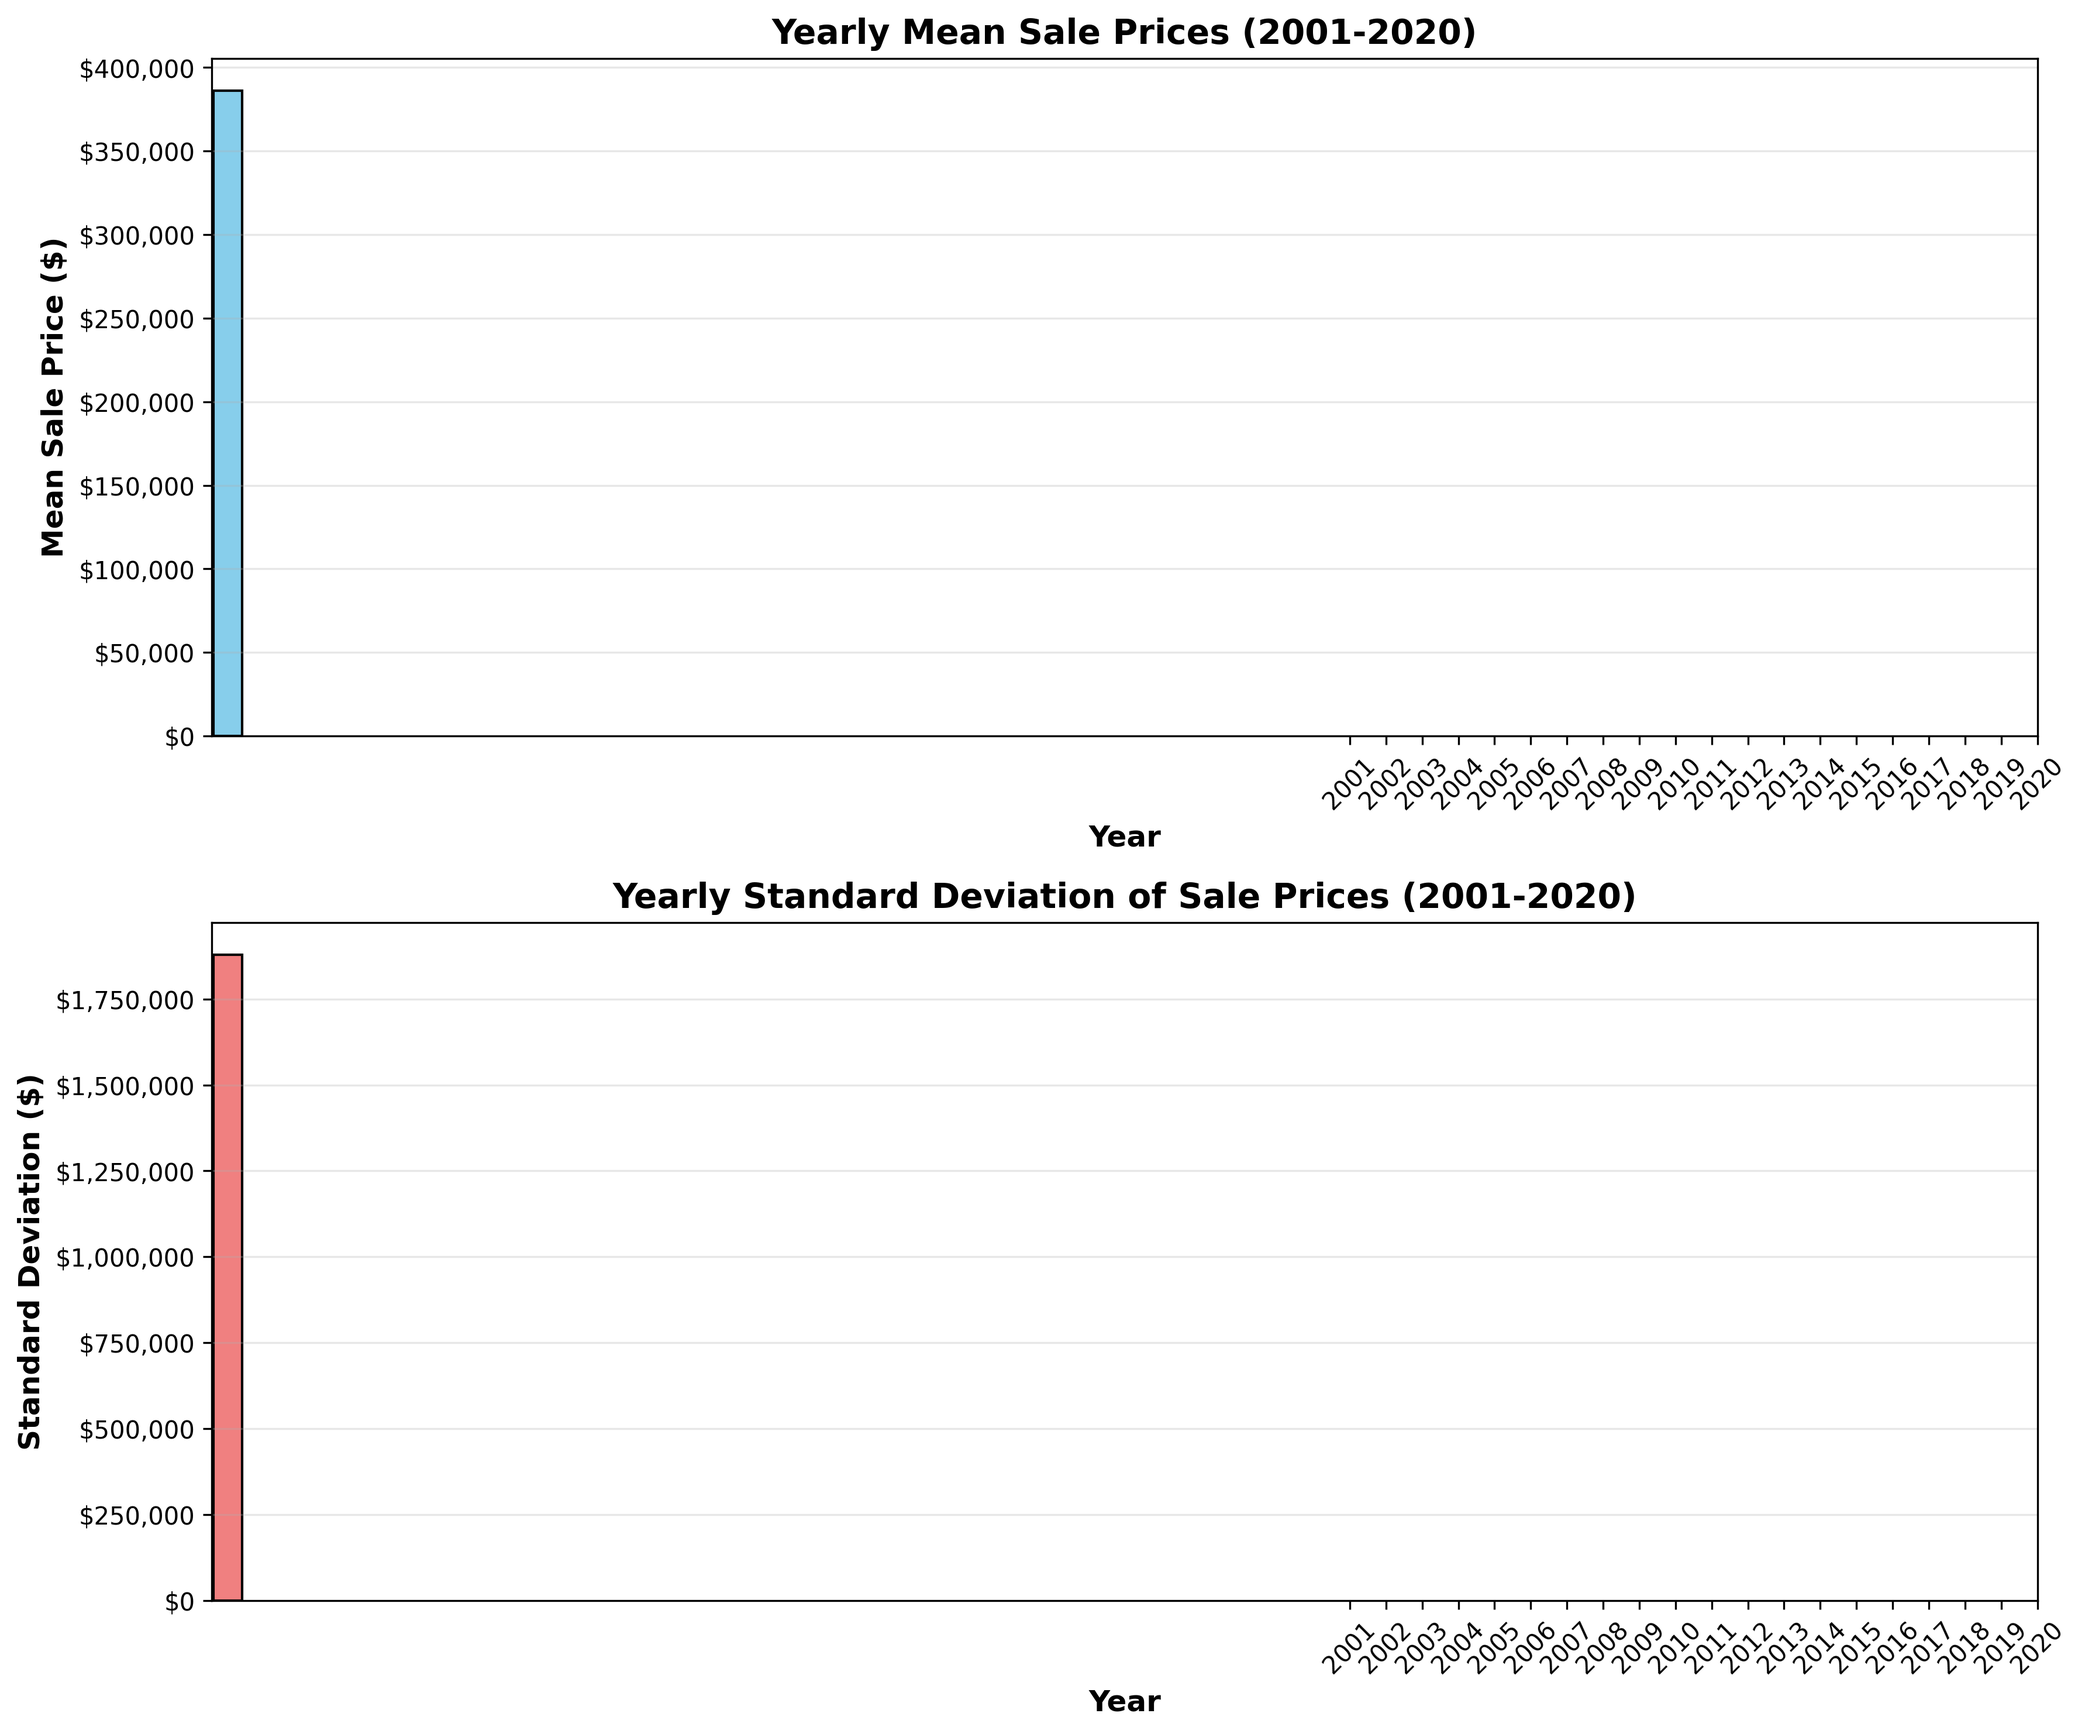
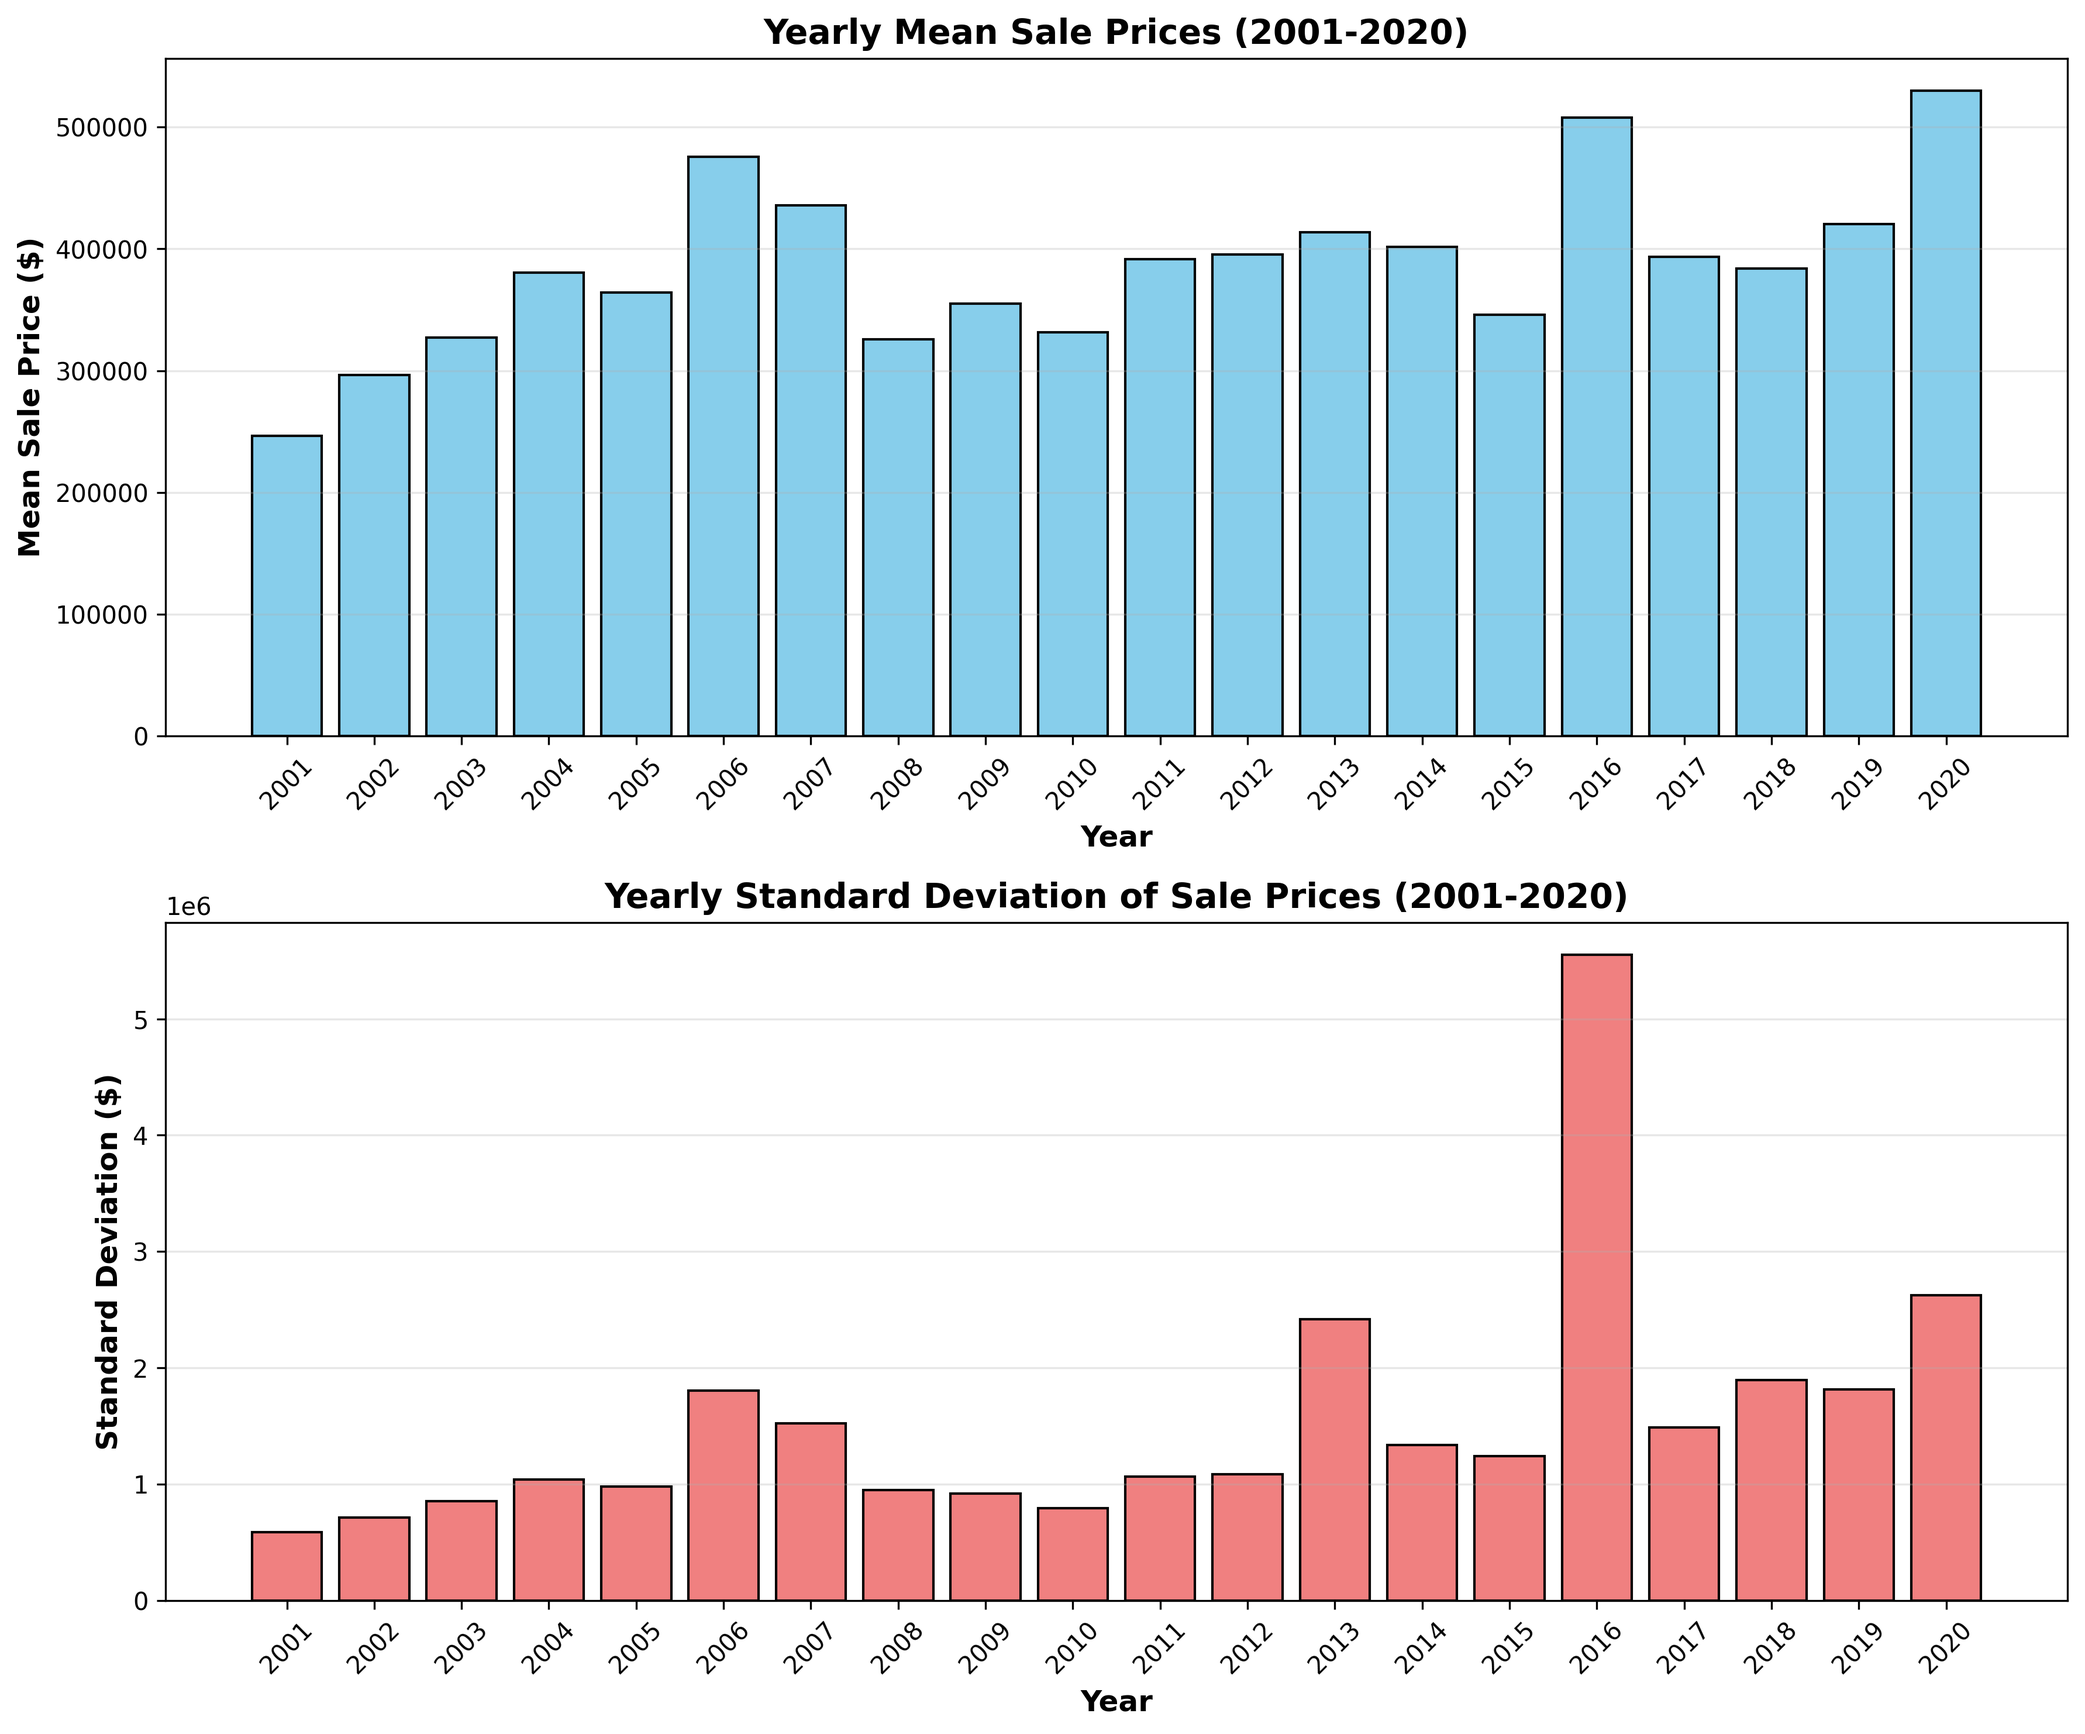
fixed using m

diff --git a/real-estate.py b/real-estate.py
@@ -1,114 +1,93 @@
-import pandas as pd
 import numpy as np
 import matplotlib.pyplot as plt
 
-# Load the CSV file
-df = pd.read_csv('Sales_01_20.csv')
+# Load CSV file
+fname = 'Sales_01_20.csv'
+data = np.loadtxt(fname, delimiter=',', skiprows=1)
 
+# Assuming first column is Year and second column is Price
+# Adjust indices if your CSV has different column order
+years_col = data[:, 0].astype(int)  # First column: Year
+prices_col = data[:, 1]              # Second column: Price
 
-# Print column names to verify (comment out after checking)
-print("Column names in CSV:")
-print(df.columns.tolist())
-print("\nFirst few rows:")
-print(df.head())
+print("Data loaded successfully!")
+print(f"Total number of sales: {len(data)}")
+print(f"Year range: {int(np.min(years_col))} to {int(np.max(years_col))}")
+print()
 
+# Initialize arrays to store results
+years = np.arange(2001, 2021)  # Years from 2001 to 2020
+means = np.zeros(20)
+stds = np.zeros(20)
+probabilities = np.zeros(20)
 
-df['Year'] = pd.to_datetime(df['List Year']).dt.year
-
-# Group by year and calculate statistics
-yearly_stats = df.groupby('Year')['Sale Amount'].agg(['mean', 'std', 'count'])
-
-# Calculate probability of sales in $200,000 to $300,000 range
-yearly_prob = []
-years = []
-
-for year in range(2001, 2021):
-    year_data = df[df['Year'] == year]['Sale Amount']
-    total_sales = len(year_data)
-    
-    if total_sales > 0:
-        # Count sales in the $200k-$300k range (inclusive)
-        in_range = len(year_data[(year_data >= 200000) & (year_data <= 300000)])
-        probability = in_range / total_sales
-    else:
-        probability = 0
-    
-    yearly_prob.append(probability)
-    years.append(year)
-
-# Print results
-print("\n" + "="*70)
+# Calculate statistics for each year
+print("="*70)
 print("YEARLY STATISTICS (2001-2020)")
 print("="*70)
 print(f"{'Year':<8} {'Mean':<15} {'Std Dev':<15} {'Probability ($200k-$300k)':<25}")
 print("-"*70)
 
-for year in range(2001, 2021):
-    if year in yearly_stats.index:
-        mean_val = yearly_stats.loc[year, 'mean']
-        std_val = yearly_stats.loc[year, 'std']
-        prob_val = yearly_prob[year - 2001]
-        print(f"{year:<8} ${mean_val:<14,.2f} ${std_val:<14,.2f} {prob_val:<25.4f}")
+for i, year in enumerate(years):
+    # Get all prices for this year
+    year_prices = prices_col[years_col == year]
+    
+    if len(year_prices) > 0:
+        # Calculate mean and standard deviation
+        means[i] = np.mean(year_prices)
+        stds[i] = np.std(year_prices)
+        
+        # Calculate probability for $200k - $300k range
+        in_range = np.sum((year_prices >= 200000) & (year_prices <= 300000))
+        probabilities[i] = in_range / len(year_prices)
+        
+        print(f"{year:<8} ${means[i]:<14,.2f} ${stds[i]:<14,.2f} {probabilities[i]:<25.4f}")
     else:
         print(f"{year:<8} No data available")
 
 print("="*70)
+print()
 
-# Create bar graphs
-fig, (ax1, ax2) = plt.subplots(2, 1, figsize=(12, 10))
+# Create bar graphs for Mean and Standard Deviation
+fig, ax = plt.subplots(2, 1, figsize=(12, 10))
 
 # Plot 1: Yearly Mean Sale Prices
-years_with_data = yearly_stats.index.tolist()
-means = yearly_stats['mean'].tolist()
-
-ax1.bar(years_with_data, means, color='skyblue', edgecolor='black')
-ax1.set_xlabel('Year', fontsize=12, fontweight='bold')
-ax1.set_ylabel('Mean Sale Price ($)', fontsize=12, fontweight='bold')
-ax1.set_title('Yearly Mean Sale Prices (2001-2020)', fontsize=14, fontweight='bold')
-ax1.grid(axis='y', alpha=0.3)
-ax1.set_xticks(range(2001, 2021))
-ax1.set_xticklabels(range(2001, 2021), rotation=45)
-
-# Format y-axis to show currency
-ax1.yaxis.set_major_formatter(plt.FuncFormatter(lambda x, p: f'${x:,.0f}'))
+ax[0].bar(years, means, color='skyblue', ec='black')
+ax[0].set_xlabel('Year', fontsize=12, fontweight='bold')
+ax[0].set_ylabel('Mean Sale Price ($)', fontsize=12, fontweight='bold')
+ax[0].set_title('Yearly Mean Sale Prices (2001-2020)', fontsize=14, fontweight='bold')
+ax[0].grid(axis='y', alpha=0.3)
+ax[0].set_xticks(years)
+ax[0].set_xticklabels(years, rotation=45)
 
 # Plot 2: Yearly Standard Deviation of Sale Prices
-stds = yearly_stats['std'].tolist()
-
-ax2.bar(years_with_data, stds, color='lightcoral', edgecolor='black')
-ax2.set_xlabel('Year', fontsize=12, fontweight='bold')
-ax2.set_ylabel('Standard Deviation ($)', fontsize=12, fontweight='bold')
-ax2.set_title('Yearly Standard Deviation of Sale Prices (2001-2020)', fontsize=14, fontweight='bold')
-ax2.grid(axis='y', alpha=0.3)
-ax2.set_xticks(range(2001, 2021))
-ax2.set_xticklabels(range(2001, 2021), rotation=45)
-
-# Format y-axis to show currency
-ax2.yaxis.set_major_formatter(plt.FuncFormatter(lambda x, p: f'${x:,.0f}'))
+ax[1].bar(years, stds, color='lightcoral', ec='black')
+ax[1].set_xlabel('Year', fontsize=12, fontweight='bold')
+ax[1].set_ylabel('Standard Deviation ($)', fontsize=12, fontweight='bold')
+ax[1].set_title('Yearly Standard Deviation of Sale Prices (2001-2020)', fontsize=14, fontweight='bold')
+ax[1].grid(axis='y', alpha=0.3)
+ax[1].set_xticks(years)
+ax[1].set_xticklabels(years, rotation=45)
 
 plt.tight_layout()
 plt.savefig('yearly_statistics.png', dpi=300, bbox_inches='tight')
 plt.show()
 
 # Create probability bar graph
-fig, ax3 = plt.subplots(figsize=(12, 6))
+fig2, ax2 = plt.subplots(figsize=(12, 6))
 
-ax3.bar(years, yearly_prob, color='lightgreen', edgecolor='black')
-ax3.set_xlabel('Year', fontsize=12, fontweight='bold')
-ax3.set_ylabel('Probability', fontsize=12, fontweight='bold')
-ax3.set_title('Yearly Probability of Sale Price $200,000 - $300,000 (2001-2020)', 
+ax2.bar(years, probabilities, color='lightgreen', ec='black')
+ax2.set_xlabel('Year', fontsize=12, fontweight='bold')
+ax2.set_ylabel('Probability', fontsize=12, fontweight='bold')
+ax2.set_title('Yearly Probability of Sale Price $200,000 - $300,000 (2001-2020)', 
               fontsize=14, fontweight='bold')
-ax3.grid(axis='y', alpha=0.3)
-ax3.set_xticks(range(2001, 2021))
-ax3.set_xticklabels(range(2001, 2021), rotation=45)
-ax3.set_ylim([0, max(yearly_prob) * 1.1])
-
-# Format y-axis as percentage
-ax3.yaxis.set_major_formatter(plt.FuncFormatter(lambda x, p: f'{x:.2%}'))
+ax2.grid(axis='y', alpha=0.3)
+ax2.set_xticks(years)
+ax2.set_xticklabels(years, rotation=45)
 
 plt.tight_layout()
 plt.savefig('yearly_probability.png', dpi=300, bbox_inches='tight')
 plt.show()
 
-print("\nGraphs saved as 'yearly_statistics.png' and 'yearly_probability.png'")
+print("Graphs saved as 'yearly_statistics.png' and 'yearly_probability.png'")
 print("Analysis complete!")
